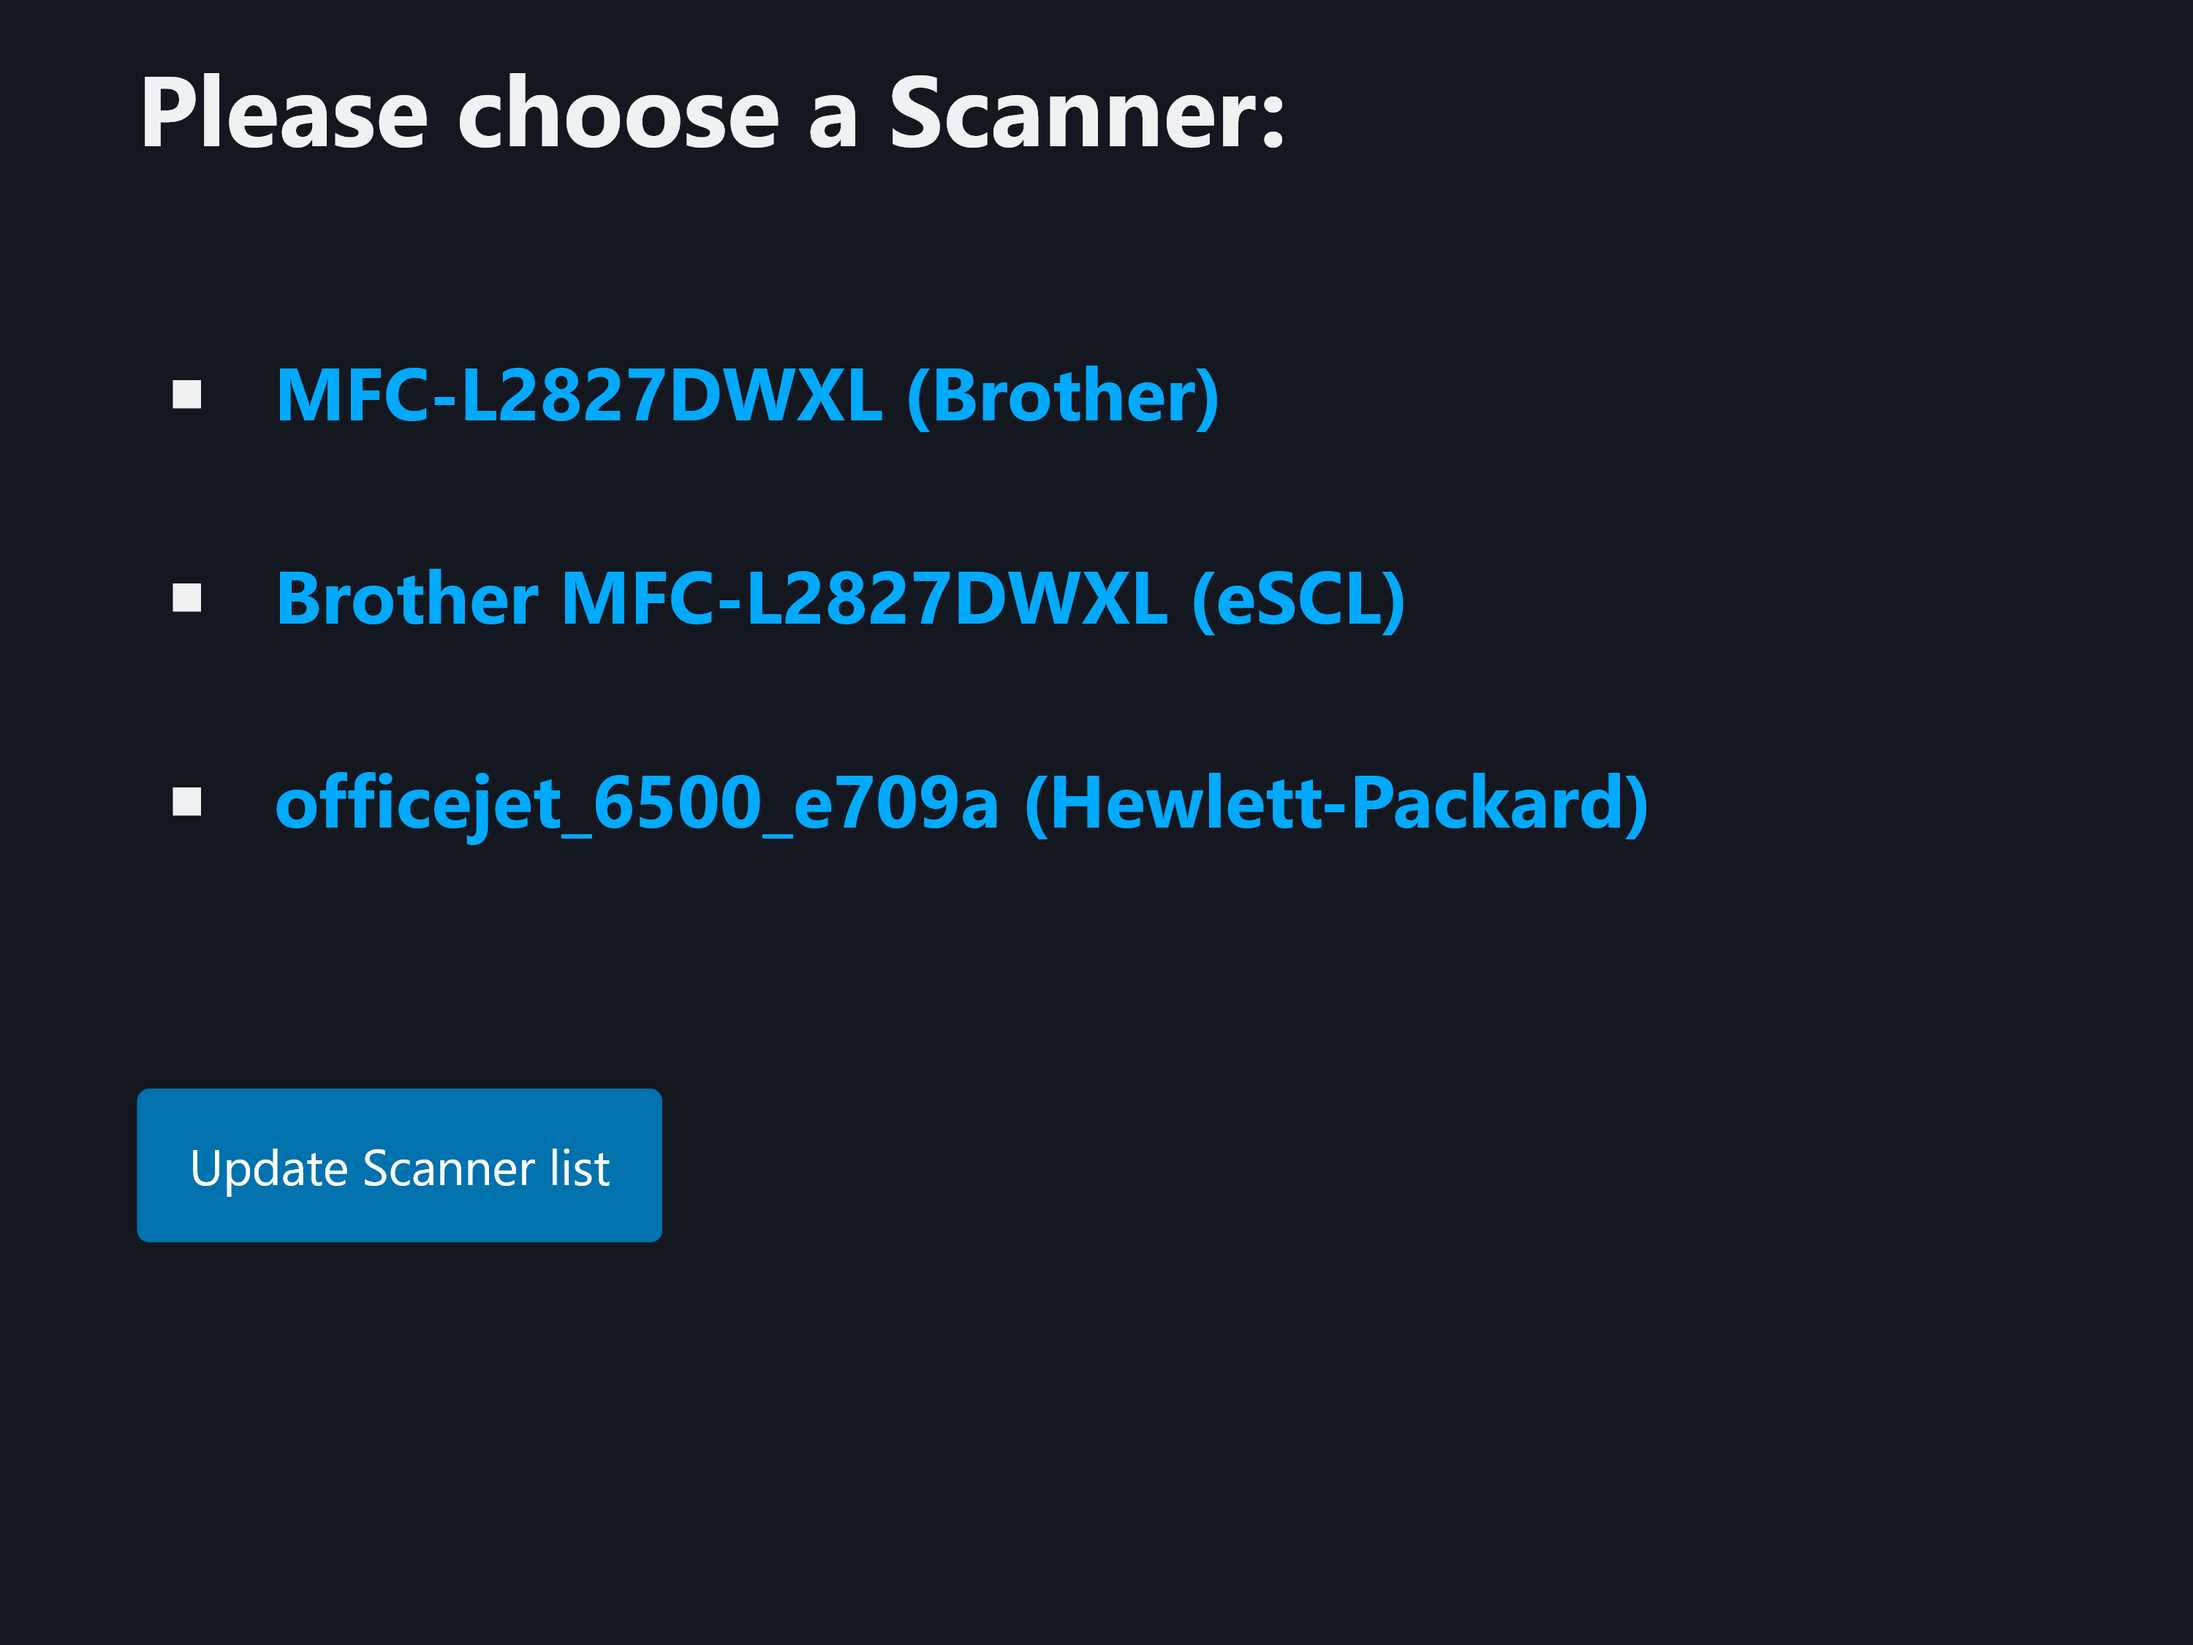
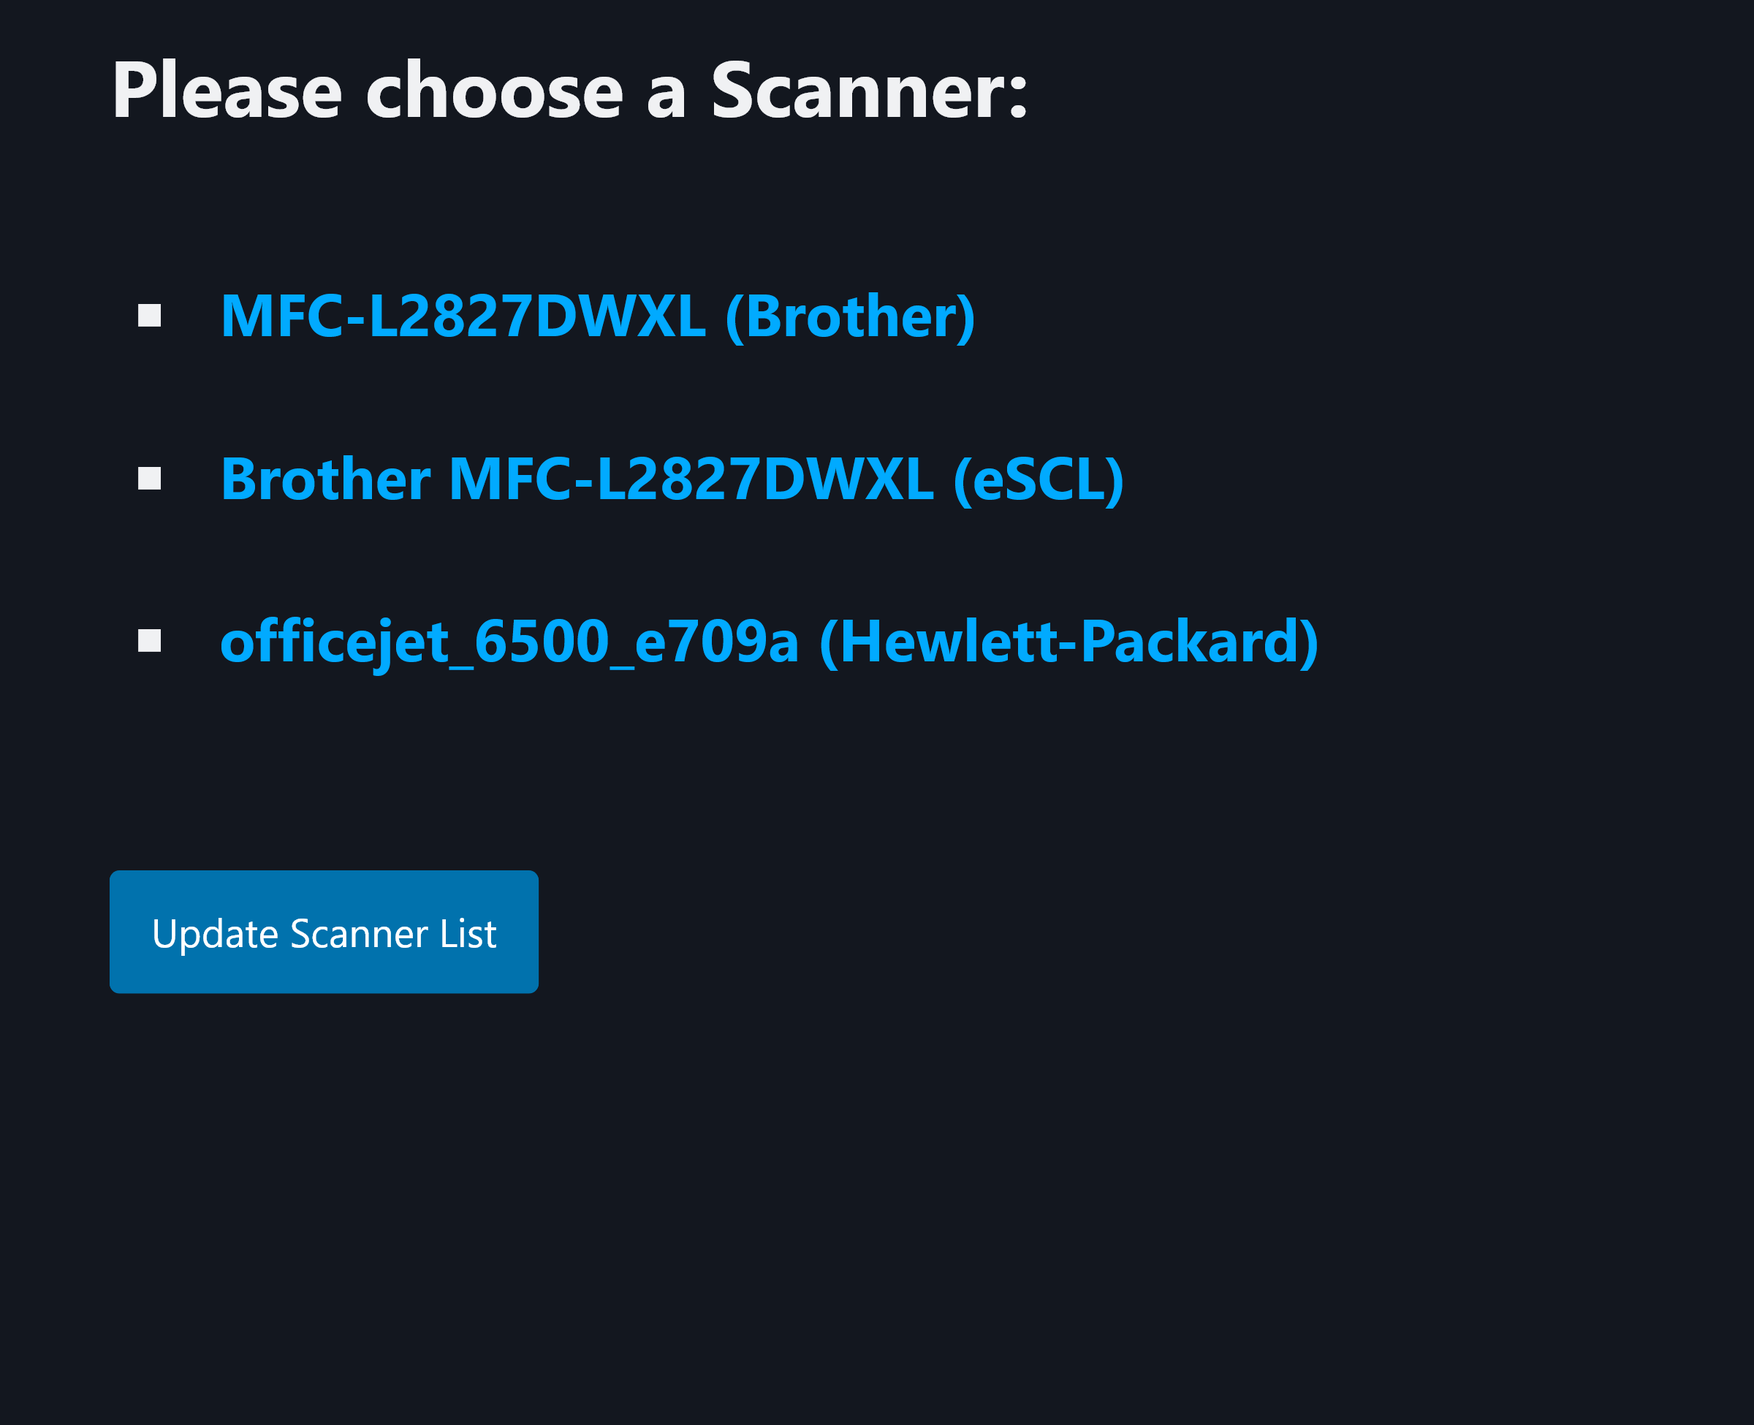
fix typo on button

diff --git a/src/templates/scanner_home.html b/src/templates/scanner_home.html
@@ -9,6 +9,7 @@
       </div>
     </h1>
   </card>
-  <button id="update-scanners" hx-get="/list_scanners" hx-target="#main" hx-swap="outerHTML">Update Scanner
-    list</button>
+  <button id="update-scanners" hx-get="/list_scanners" hx-target="#main" hx-swap="outerHTML">
+    Update Scanner List
+  </button>
 </main>
